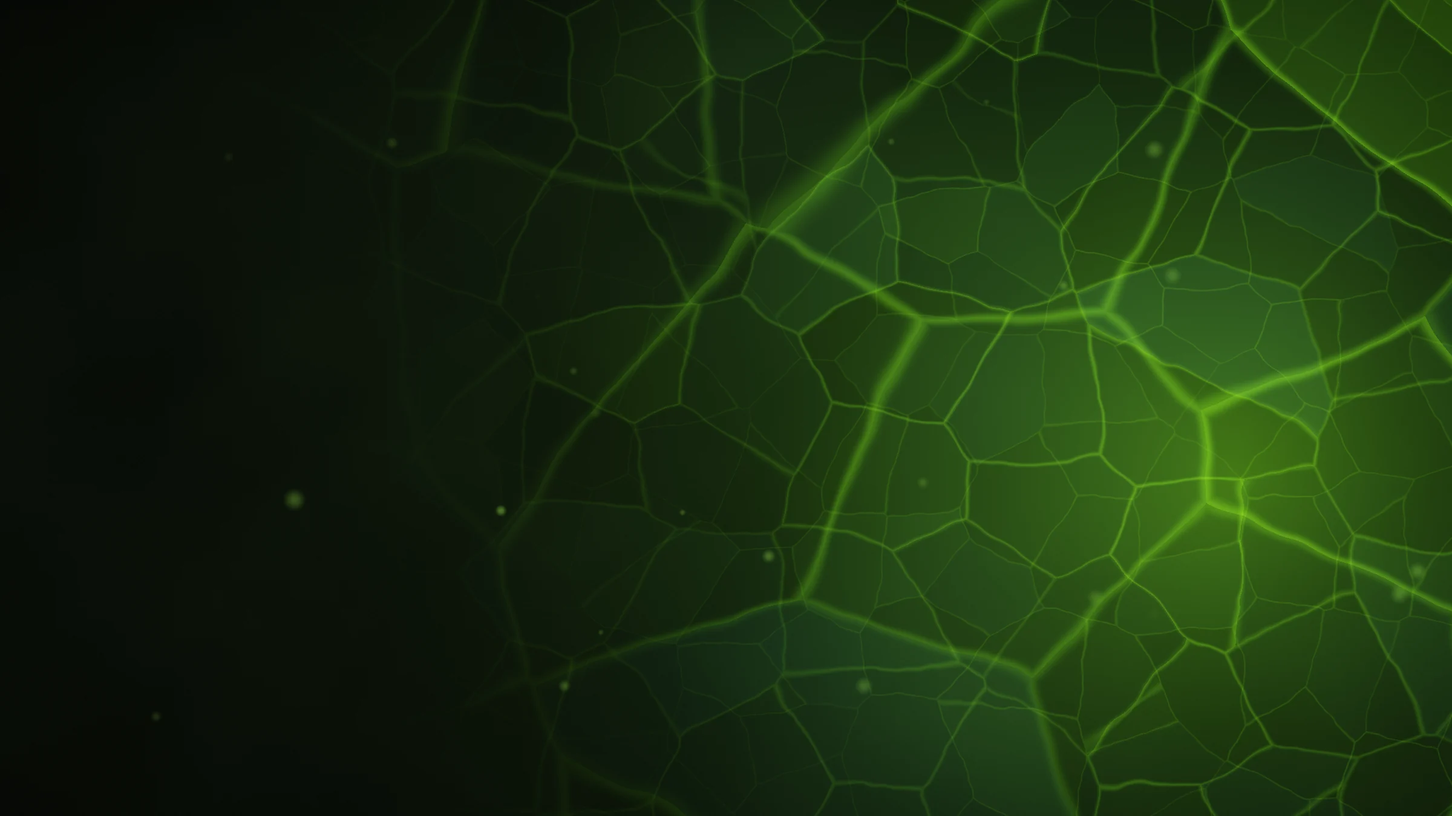
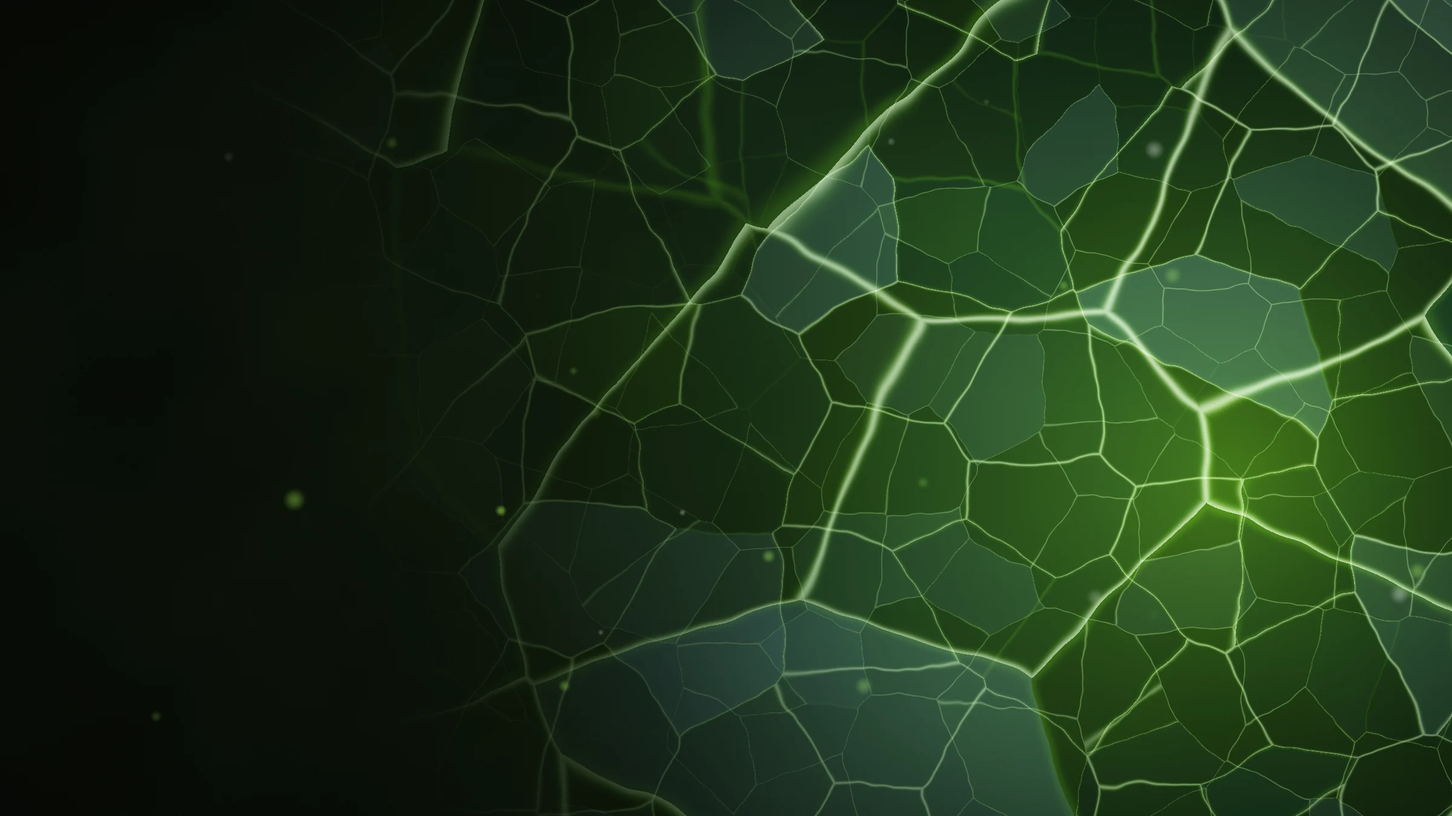
feat: заставка Nexora как в rgbKineticSlider: RGB-расслоение по скорости мыши, рваная карта смещения, переходы по клику
Claude-Session: https://claude.ai/code/session_0161VnaKdFPpLEBpFpH8W4Tu

diff --git a/apps/web/static/web/js/liquid-fx.js b/apps/web/static/web/js/liquid-fx.js
@@ -1,11 +1,13 @@
-/* Заставка темы Nexora: «жидкая» картинка (WebGL, без библиотек).
-   Идея из rgbKineticSlider (PixiJS + GSAP), переписанная одним шейдером:
-   - картинка всё время чуть «дышит»: её пиксели тянет медленный шум (вместо картинки-карты смещения);
-   - за курсором с инерцией идёт линза: чем быстрее мышь, тем сильнее она тянет картинку
-     по направлению движения и тем сильнее RGB-расслоение (красный в одну сторону, синий в другую);
-   - при появлении (и при смене картинок, если их несколько) картинка «растекается» и собирается.
+/* Заставка темы Nexora: «жидкая» картинка с RGB-расслоением и помехами (WebGL, без библиотек).
+   Повторяет эффект rgbKineticSlider (PixiJS + GSAP, ~600 КБ) одним шейдером, с теми же коэффициентами:
+   - мышь: картинка у курсора тянется за ним (радиальная линза), а по всей картинке красный и голубой
+     разъезжаются на скорость мыши в пикселях: чем резче движение, тем сильнее расслоение;
+   - зажать кнопку и тянуть: по картинке едет рваная карта смещения — края «текут» и бьются помехами;
+   - клик по заставке, появление и смена картинок: переход — картинку рвёт по той же карте до 160 px
+     и расслаивает до 80 px, потом она собирается.
+   Рваную карту (блочный радиальный шум + кольца с резкими краями) считает сам шейдер, файлов-карт нет.
    Картинки любые (JPG, PNG, WebP): вписываются как object-fit: cover, слишком большие уменьшаются.
-   Несколько картинок через «|» в data-images — тогда они сменяют друг друга.
+   Несколько картинок через «|» в data-images — клик и таймер переключают их.
    Нет WebGL, «меньше движения» или другая тема — эффект не запускается, остаётся обычный фон темы. */
 (function () {
   "use strict";
@@ -14,72 +16,83 @@
   var box = document.querySelector(".liquid");
   var canvas = box && box.querySelector(".liquid-fx");
   if (!canvas) return;
+  var hero = box.closest(".hero") || box;
 
   var SOURCES = (canvas.dataset.images || "").split("|").filter(Boolean);
   if (!SOURCES.length) return;
 
+  // Коэффициенты как в настройках оригинала; все смещения в CSS-пикселях
   var SETTINGS = {
-    breathe: 0.006,     // постоянное «дыхание» картинки (доля ширины)
-    lens: 0.22,         // радиус линзы курсора (доля высоты блока)
-    pull: 3.4,          // насколько линза тянет картинку за мышью
-    rgb: 2.6,           // сила RGB-расслоения от скорости мыши
-    momentum: 0.12,     // инерция линзы: меньше — плавнее и дольше догоняет
-    intro: 1.4,         // длительность «растекания» при появлении и смене картинки, с
-    change: 9           // через сколько секунд менять картинку (если их несколько)
+    momentum: 0.14,        // cursorMomentum: как быстро «точка» догоняет курсор (меньше — дольше хвост)
+    cursorScale: 0.65,     // cursorScaleIntensity: насколько линза тянет картинку за мышью
+    cursorRadius: 256,     // радиус линзы, px
+    rgb: 0.9,              // imagesRgbIntensity: расслоение = скорость мыши × это число
+    dragScale: 2,          // swipeScaleIntensity: сила рваной карты при перетаскивании
+    transitionScale: 160,  // transitionScaleAmplitude: насколько рвёт картинку при переходе, px
+    transitionRgb: 80,     // navImagesRgbIntensity: расслоение при переходе, px
+    transition: 2,         // длительность перехода, с (в оригинале 1 с туда и 1 с обратно)
+    change: 0              // автосмена картинок раз в N секунд; 0 — только по клику
   };
 
-  // Картинка дышит постоянно, пока видна, поэтому на слабых устройствах рисуем в меньшем разрешении
+  // Слабое устройство или телефон: холст в разрешении 1×, этого хватает глазу
   var LITE = (navigator.hardwareConcurrency || 8) <= 4 || (navigator.deviceMemory || 8) <= 4 ||
              (window.matchMedia && (matchMedia("(pointer: coarse)").matches ||
                                     matchMedia("(prefers-reduced-data: reduce)").matches));
 
-  var gl = null, prog = null, textures = [], sizes = [], u = {};
-  var started = false, raf = 0, visible = false, onScreen = true;
-  var current = 0, next = 0, switchAt = 0, introStart = 0, lastChange = 0;
-  var mouse = { x: 0.5, y: 0.5, tx: 0.5, ty: 0.5, inside: false };   // tx/ty — где курсор, x/y — где линза
-  var vel = { x: 0, y: 0 };
+  var gl = null, u = {}, textures = [], sizes = [];
+  var started = false, visible = false, onScreen = true, raf = 0;
+  var cssW = 1, cssH = 1;
+  var current = 0, next = 0;
+  var tr = { start: -1, swap: false };                      // переход: когда начался, меняет ли картинку
+  var lastChange = 0;
+  var p = { x: 0, y: 0, vx: 0, vy: 0, inside: false };      // курсор (x, y) и догоняющая его точка (vx, vy)
+  var lens = { x: 0, y: 0 };                                // сила линзы, плавно догоняет скорость (как TweenMax 0.5 с)
+  var drag = { on: false, x: 0, y: 0, sx: 0, amount: 0, moved: false };
 
   /* ---------- шейдер ---------- */
-  var VERT = "attribute vec2 p;varying vec2 uv;void main(){uv=p*.5+.5;uv.y=1.-uv.y;gl_Position=vec4(p,0.,1.);}";
+  var VERT = "attribute vec2 a;varying vec2 uv;void main(){uv=a*.5+.5;uv.y=1.-uv.y;gl_Position=vec4(a,0.,1.);}";
   var FRAG = [
-    "precision mediump float;",
+    "precision highp float;",
     "varying vec2 uv;",
-    "uniform sampler2D texA, texB;",   // текущая и следующая картинки
-    "uniform vec2 sizeA, sizeB, box;", // размеры картинок и блока в пикселях
-    "uniform vec2 mouse, vel;",        // линза (0..1) и её скорость
-    "uniform float time, mixT, burst, breathe, lens, pull, rgb;",
-    // гладкий шум: сумма волн разных масштабов, его «наклон» и есть смещение пикселей
-    "float h(vec2 p){return fract(sin(dot(p,vec2(127.1,311.7)))*43758.5453);}",
-    "float n(vec2 p){vec2 i=floor(p),f=fract(p);f=f*f*(3.-2.*f);",
+    "uniform sampler2D texA, texB;",
+    "uniform vec2 sizeA, sizeB, box;",       // размеры картинок и блока (CSS px)
+    "uniform vec2 mouse, lens, rgb;",        // точка у курсора, сила линзы и расслоение (px)
+    "uniform vec2 center;",                  // откуда рвёт карта: середина блока или курсор при перетаскивании
+    "uniform float tear, mapScale, mixT;",   // сила рваной карты (px), её масштаб, доля новой картинки
+    "float h(vec2 q){return fract(sin(dot(q,vec2(127.1,311.7)))*43758.5453);}",
+    "float n(vec2 q){vec2 i=floor(q),f=fract(q);f=f*f*(3.-2.*f);",
     "  return mix(mix(h(i),h(i+vec2(1,0)),f.x),mix(h(i+vec2(0,1)),h(i+1.),f.x),f.y);}",
-    "vec2 flow(vec2 p){",
-    "  vec2 a=vec2(n(p+time*.05),n(p+vec2(5.2,1.3)-time*.04));",
-    "  vec2 b=vec2(n(p*2.1+vec2(9.,2.)+time*.07),n(p*2.1+vec2(3.,7.)-time*.06));",
-    "  return (a+b*.5)/1.5-.5;}",
-    // как object-fit: cover: координаты картинки, чтобы она заполнила блок без искажения
-    "vec2 cover(vec2 st,vec2 img){",
-    "  float s=max(box.x/img.x,box.y/img.y);vec2 k=box/(img*s);",
-    "  return (st-.5)*k+.5;}",
-    "vec3 pick(sampler2D t,vec2 img,vec2 st,vec2 shift){",
-    "  vec2 c=cover(st,img);",
-    "  float r=texture2D(t,cover(st+shift,img)).r;",      // красный и синий берём со сдвигом
-    "  float g=texture2D(t,c).g;",
-    "  float b=texture2D(t,cover(st-shift,img)).b;",
+    "float fbm(vec2 q){float s=0.,k=.5;for(int i=0;i<4;i++){s+=k*n(q);q=q*2.1+13.7;k*=.5;}return s;}",
+    // Рваная карта смещения (как map.jpg и map3.png оригинала): блоки по секторам вокруг центра
+    // и кольца с резкими краями. На резких краях соседние пиксели сдвигаются по-разному — это и есть помехи.
+    "float tearMap(vec2 d){",
+    "  vec2 q=d/(220.*mapScale);",
+    "  float ang=atan(q.y,q.x),r=length(q);",
+    "  float blocks=h(floor(vec2(ang*3.8197,r*6.)));",          // 24 сектора × кольца-ступеньки
+    "  blocks=mix(blocks,n(q*3.),.45);",
+    "  float rings=fract(fbm(q*.9+3.)*5.);",                    // контурные кольца, обрыв на каждом
+    "  return mix(blocks,rings,.5);}",
+    // object-fit: cover с запасом 6% по краям, чтобы смещение не вытаскивало край картинки
+    "vec2 cover(vec2 px,vec2 img){",
+    "  float s=max(box.x/img.x,box.y/img.y)*1.06;",
+    "  return (px-box*.5)/(img*s)+.5;}",
+    // Линза у курсора (как displace-circle.png): в центре тянет сильнее всего, к краю сходит на нет
+    "vec2 lensShift(vec2 px){",
+    "  float v=.5*smoothstep(0.," + SETTINGS.cursorRadius.toFixed(1) + ",length(px-mouse));",
+    "  return (vec2(v)-.5)*lens;}",
+    "vec3 pick(sampler2D t,vec2 img,vec2 px){",
+    "  vec2 pr=px+rgb, pb=px-rgb;",                              // красный в одну сторону, голубой в другую
+    "  float r=texture2D(t,cover(pr+lensShift(pr),img)).r;",
+    "  float g=texture2D(t,cover(px+lensShift(px),img)).g;",
+    "  float b=texture2D(t,cover(pb+lensShift(pb),img)).b;",
     "  return vec3(r,g,b);}",
     "void main(){",
-    "  float aspect=box.x/box.y;",
-    "  vec2 f=flow(uv*vec2(aspect,1.)*2.2);",
-    "  vec2 d=f*(breathe+burst*.18);",                           // дыхание + растекание при смене
-    "  vec2 q=(uv-mouse)*vec2(aspect,1.);",
-    "  float fall=smoothstep(lens,0.,length(q));",               // 1 в центре линзы, 0 за её краем
-    "  fall*=fall;",
-    "  d-=vel*fall*pull;",                                       // линза тянет картинку за мышью
-    "  vec2 shift=vel*(fall*rgb+.15*rgb)+vec2(burst*.025,0.);",  // RGB-расслоение по движению
-    "  vec3 a=pick(texA,sizeA,uv+d*(1.+mixT),shift);",
-    "  vec3 b=pick(texB,sizeB,uv-d*(2.-mixT*2.),shift);",        // следующая «стекает» навстречу
-    "  vec3 col=mix(a,b,smoothstep(0.,1.,mixT));",
-    "  col+=vec3(.5,1.,.1)*fall*length(vel)*1.6;",               // лёгкий отсвет линзы в цвет темы
-    "  gl_FragColor=vec4(col,1.);",
+    "  vec2 px=uv*box;",
+    "  float m=tearMap(px-center);",
+    "  px+=(vec2(m)-.5)*tear;",                                  // рвём по карте (Pixi DisplacementFilter)
+    "  vec3 a=pick(texA,sizeA,px);",
+    "  vec3 b=pick(texB,sizeB,px);",
+    "  gl_FragColor=vec4(mix(a,b,smoothstep(.3,.7,mixT)),1.);",
     "}"
   ].join("\n");
 
@@ -91,8 +104,9 @@
   }
 
   function setup() {
-    gl = canvas.getContext("webgl", { alpha: false, antialias: false, premultipliedAlpha: false });
+    gl = canvas.getContext("webgl", { alpha: false, antialias: false });
     if (!gl) return false;
+    var prog;
     try {
       prog = gl.createProgram();
       gl.attachShader(prog, compile(gl.VERTEX_SHADER, VERT));
@@ -103,16 +117,12 @@
     gl.useProgram(prog);
     gl.bindBuffer(gl.ARRAY_BUFFER, gl.createBuffer());
     gl.bufferData(gl.ARRAY_BUFFER, new Float32Array([-1, -1, 1, -1, -1, 1, 1, 1]), gl.STATIC_DRAW);
-    var loc = gl.getAttribLocation(prog, "p");
+    var loc = gl.getAttribLocation(prog, "a");
     gl.enableVertexAttribArray(loc);
     gl.vertexAttribPointer(loc, 2, gl.FLOAT, false, 0, 0);
-    ["texA", "texB", "sizeA", "sizeB", "box", "mouse", "vel", "time", "mixT", "burst",
-     "breathe", "lens", "pull", "rgb"].forEach(function (name) { u[name] = gl.getUniformLocation(prog, name); });
+    ["texA", "texB", "sizeA", "sizeB", "box", "mouse", "lens", "rgb", "center", "tear", "mapScale", "mixT"]
+      .forEach(function (name) { u[name] = gl.getUniformLocation(prog, name); });
     gl.uniform1i(u.texA, 0); gl.uniform1i(u.texB, 1);
-    gl.uniform1f(u.breathe, SETTINGS.breathe);
-    gl.uniform1f(u.lens, SETTINGS.lens);
-    gl.uniform1f(u.pull, SETTINGS.pull);
-    gl.uniform1f(u.rgb, SETTINGS.rgb);
     return true;
   }
 
@@ -120,7 +130,6 @@
   function load(src) {
     return new Promise(function (resolve, reject) {
       var img = new Image();
-      img.decoding = "async";
       img.onload = function () { resolve(img); };
       img.onerror = reject;
       img.src = src;
@@ -132,8 +141,7 @@
     var limit = Math.min(gl.getParameter(gl.MAX_TEXTURE_SIZE), 4096);
     var w = img.naturalWidth, h = img.naturalHeight, source = img;
     if (Math.max(w, h) > limit) {
-      var k = limit / Math.max(w, h);
-      var c = document.createElement("canvas");
+      var k = limit / Math.max(w, h), c = document.createElement("canvas");
       c.width = Math.round(w * k); c.height = Math.round(h * k);
       c.getContext("2d").drawImage(img, 0, 0, c.width, c.height);
       source = c; w = c.width; h = c.height;
@@ -146,98 +154,146 @@
     gl.texParameteri(gl.TEXTURE_2D, gl.TEXTURE_MIN_FILTER, gl.LINEAR);
     gl.texParameteri(gl.TEXTURE_2D, gl.TEXTURE_MAG_FILTER, gl.LINEAR);
     gl.texImage2D(gl.TEXTURE_2D, 0, gl.RGB, gl.RGB, gl.UNSIGNED_BYTE, source);
-    return { texture: t, size: [w, h] };
+    textures.push(t); sizes.push([w, h]);
   }
 
-  /* ---------- размер и курсор ---------- */
+  /* ---------- размер ---------- */
   function resize() {
     var rect = box.getBoundingClientRect();
-    // выше 1.75 разницы не видно, а нагрузка растёт; на слабых устройствах и телефонах хватает 1
+    cssW = Math.max(1, rect.width); cssH = Math.max(1, rect.height);
     var dpr = Math.min(window.devicePixelRatio || 1, LITE ? 1 : 1.75);
-    var w = Math.max(1, Math.round(rect.width * dpr)), h = Math.max(1, Math.round(rect.height * dpr));
+    var w = Math.round(cssW * dpr), h = Math.round(cssH * dpr);
     if (canvas.width !== w || canvas.height !== h) { canvas.width = w; canvas.height = h; }
     gl.viewport(0, 0, w, h);
-    gl.uniform2f(u.box, w, h);
+    gl.uniform2f(u.box, cssW, cssH);
   }
 
-  function pointer(x, y) {
+  /* ---------- мышь и палец ---------- */
+  function local(e) {
     var rect = box.getBoundingClientRect();
-    mouse.tx = (x - rect.left) / rect.width;
-    mouse.ty = (y - rect.top) / rect.height;
-    mouse.inside = mouse.tx >= 0 && mouse.tx <= 1 && mouse.ty >= 0 && mouse.ty <= 1;
+    return { x: e.clientX - rect.left, y: e.clientY - rect.top, inside:
+      e.clientX >= rect.left && e.clientX <= rect.right && e.clientY >= rect.top && e.clientY <= rect.bottom };
+  }
+
+  hero.addEventListener("pointermove", function (e) {
+    var q = local(e);
+    if (!p.inside && q.inside) { p.vx = q.x; p.vy = q.y; }           // вошли: хвост начинается отсюда, без рывка
+    p.x = q.x; p.y = q.y; p.inside = q.inside;
+    if (drag.on && Math.abs(q.x - drag.sx) > 6) drag.moved = true;
+    kick();
+  }, { passive: true });
+  hero.addEventListener("pointerleave", function () { p.inside = false; drag.on = false; kick(); });
+
+  function onControl(target) { return target.closest("a, button, input, select, textarea, label"); }
+
+  hero.addEventListener("pointerdown", function (e) {
+    if (onControl(e.target)) return;
+    var q = local(e);
+    drag.on = true; drag.moved = false; drag.sx = q.x;
+    kick();
+  });
+  window.addEventListener("pointerup", function () {
+    if (!drag.on) return;
+    drag.on = false;
+    if (!drag.moved) transition(textures.length > 1);   // просто клик: переход (на следующую картинку, если их несколько)
+    kick();
+  });
+
+  /* ---------- переходы ---------- */
+  function now() { return performance.now() / 1000; }
+
+  function transition(swap) {
+    if (tr.start >= 0) return;                          // уже идёт
+    tr.start = now(); tr.swap = swap && textures.length > 1;
+    if (tr.swap) next = (current + 1) % textures.length;
     kick();
   }
 
-  var hero = box.closest(".hero") || box;
-  hero.addEventListener("pointermove", function (e) { pointer(e.clientX, e.clientY); }, { passive: true });
-  hero.addEventListener("pointerleave", function () { mouse.inside = false; });
-
   /* ---------- кадр ---------- */
-  function ease(t) { return 1 - Math.pow(1 - Math.min(Math.max(t, 0), 1), 3); }
-
   function bind(unit, index) {
-    gl.activeTexture(unit === 0 ? gl.TEXTURE0 : gl.TEXTURE1);
+    gl.activeTexture(unit ? gl.TEXTURE1 : gl.TEXTURE0);
     gl.bindTexture(gl.TEXTURE_2D, textures[index]);
-    gl.uniform2f(unit === 0 ? u.sizeA : u.sizeB, sizes[index][0], sizes[index][1]);
+    gl.uniform2f(unit ? u.sizeB : u.sizeA, sizes[index][0], sizes[index][1]);
   }
 
-  function frame(now) {
+  function frame() {
     raf = 0;
     if (!visible || !onScreen || document.hidden) return;
-    var t = now / 1000;
+    var t = now();
 
-    // линза догоняет курсор с инерцией; скорость = на сколько она отстаёт
-    var tx = mouse.inside ? mouse.tx : 0.5, ty = mouse.inside ? mouse.ty : 0.5;
-    var vx = (tx - mouse.x) * SETTINGS.momentum, vy = (ty - mouse.y) * SETTINGS.momentum;
-    mouse.x += vx; mouse.y += vy;
-    vel.x += (vx - vel.x) * 0.25; vel.y += (vy - vel.y) * 0.25;       // сглаживаем рывки
+    // Как в оригинале: точка догоняет курсор, «скорость» — насколько она отстаёт (kineX, kineY)
+    var tx = p.inside ? p.x : p.vx, ty = p.inside ? p.y : p.vy;
+    p.vx += (tx - p.vx) * SETTINGS.momentum;
+    p.vy += (ty - p.vy) * SETTINGS.momentum;
+    var kx = tx - p.vx, ky = ty - p.vy;
+    if (!p.inside) { kx *= 0.85; ky *= 0.85; }
 
-    // растекание при появлении, смена картинки по таймеру
-    var burst = 1 - ease((t - introStart) / SETTINGS.intro);
-    var mixT = 0;
-    if (textures.length > 1) {
-      if (!switchAt && t - lastChange > SETTINGS.change) { switchAt = t; next = (current + 1) % textures.length; }
-      if (switchAt) {
-        mixT = ease((t - switchAt) / SETTINGS.intro);
-        burst = Math.max(burst, Math.sin(Math.PI * mixT));             // растекается и собирается
-        if (mixT >= 1) { current = next; switchAt = 0; lastChange = t; mixT = 0; }
-      }
+    // Линза плавно догоняет скорость (в оригинале TweenMax за 0,5 с)
+    lens.x += (kx * SETTINGS.cursorScale - lens.x) * 0.12;
+    lens.y += (ky * SETTINGS.cursorScale - lens.y) * 0.12;
+
+    // Перетаскивание: рваная карта едет за курсором, сила по скорости; отпустили — стихает
+    var dragTarget = drag.on && drag.moved ? Math.hypot(kx, ky) * SETTINGS.dragScale : 0;
+    drag.amount += (dragTarget - drag.amount) * (drag.on ? 0.3 : 0.1);
+    drag.x += ((drag.on ? p.x : drag.x) - drag.x) * 0.5;
+    drag.y += ((drag.on ? p.y : drag.y) - drag.y) * 0.5;
+
+    // Переход: сила растёт и спадает по синусу, карта по ходу укрупняется (sprite.scale в оригинале)
+    var progress = tr.start >= 0 ? Math.min((t - tr.start) / SETTINGS.transition, 1) : 0;
+    var burst = tr.start >= 0 ? Math.sin(Math.PI * progress) : 0;
+    var mixT = tr.swap ? progress : 0;
+    if (tr.start >= 0 && progress >= 1) {
+      if (tr.swap) current = next;
+      tr.start = -1; tr.swap = false; mixT = 0; burst = 0; lastChange = t;
     }
-    bind(0, current); bind(1, switchAt ? next : current);
+    if (SETTINGS.change && textures.length > 1 && tr.start < 0 && t - lastChange > SETTINGS.change) transition(true);
 
-    gl.uniform2f(u.mouse, mouse.x, mouse.y);
-    gl.uniform2f(u.vel, vel.x, vel.y);
-    gl.uniform1f(u.time, t);
+    var tear = burst * SETTINGS.transitionScale + drag.amount;
+    var useDrag = drag.amount > burst * SETTINGS.transitionScale;
+    bind(0, current); bind(1, tr.swap ? next : current);
+    gl.uniform2f(u.mouse, p.vx, p.vy);
+    gl.uniform2f(u.lens, lens.x, lens.y);
+    gl.uniform2f(u.rgb, kx * SETTINGS.rgb + burst * SETTINGS.transitionRgb, 0);
+    gl.uniform2f(u.center, useDrag ? drag.x : cssW / 2, useDrag ? drag.y : cssH / 2);
+    gl.uniform1f(u.tear, tear);
+    gl.uniform1f(u.mapScale, 0.6 + progress * 2.4);
     gl.uniform1f(u.mixT, mixT);
-    gl.uniform1f(u.burst, burst);
     gl.drawArrays(gl.TRIANGLE_STRIP, 0, 4);
-    raf = requestAnimationFrame(frame);                                 // картинка дышит всегда, пока видна
+
+    // Крутим кадры, пока что-то движется; всё стихло — стоим и не тратим батарею
+    var busy = tr.start >= 0 || drag.on || drag.amount > 0.3 ||
+               Math.abs(kx) + Math.abs(ky) > 0.3 || Math.abs(lens.x) + Math.abs(lens.y) > 0.3 ||
+               (SETTINGS.change && textures.length > 1);
+    if (busy) raf = requestAnimationFrame(frame);
   }
 
-  function kick() { if (!raf && started && visible && onScreen && !document.hidden) raf = requestAnimationFrame(frame); }
+  function kick() {
+    if (!raf && visible && onScreen && !document.hidden) raf = requestAnimationFrame(frame);
+  }
 
   /* ---------- запуск только в теме Nexora ---------- */
   function themeChanged() {
     var want = root.dataset.theme === "nexora" && root.dataset.motion !== "reduced";
     if (want && !started) { start(); return; }
-    visible = want && textures.length > 0;                            // рисуем, только когда картинки уже в видеокарте
+    var was = visible;
+    visible = want && textures.length > 0;              // рисуем, только когда картинки уже в видеокарте
     box.classList.toggle("is-gl", visible);
-    hero.classList.toggle("has-liquid", visible);                       // кристалл темы прячем, пока виден эффект
-    if (visible) { introStart = performance.now() / 1000; lastChange = introStart; kick(); }   // при переключении темы снова «растекается»
+    hero.classList.toggle("has-liquid", visible);       // кристалл темы прячем, пока виден эффект
+    if (visible && !was) { p.vx = p.x = cssW / 2; p.vy = p.y = cssH / 2; lastChange = now(); transition(false); }
   }
 
   function start() {
-    started = true;          // второй раз не запускаем, даже если что-то не вышло
+    started = true;                                     // второй раз не запускаем, даже если что-то не вышло
     if (!setup()) return;
     Promise.all(SOURCES.map(load)).then(function (imgs) {
-      imgs.forEach(function (img) { var t = toTexture(img); textures.push(t.texture); sizes.push(t.size); });
+      imgs.forEach(toTexture);
       resize();
       themeChanged();
     }).catch(function () { /* картинка не загрузилась: остаётся обычный фон темы */ });
   }
 
   new MutationObserver(themeChanged).observe(root, { attributes: true, attributeFilter: ["data-theme", "data-motion"] });
-  window.addEventListener("resize", function () { if (gl && textures.length) resize(); kick(); });
+  window.addEventListener("resize", function () { if (textures.length) { resize(); kick(); } });
   document.addEventListener("visibilitychange", kick);
   if ("IntersectionObserver" in window) {
     new IntersectionObserver(function (entries) { onScreen = entries[0].isIntersecting; kick(); }).observe(box);
